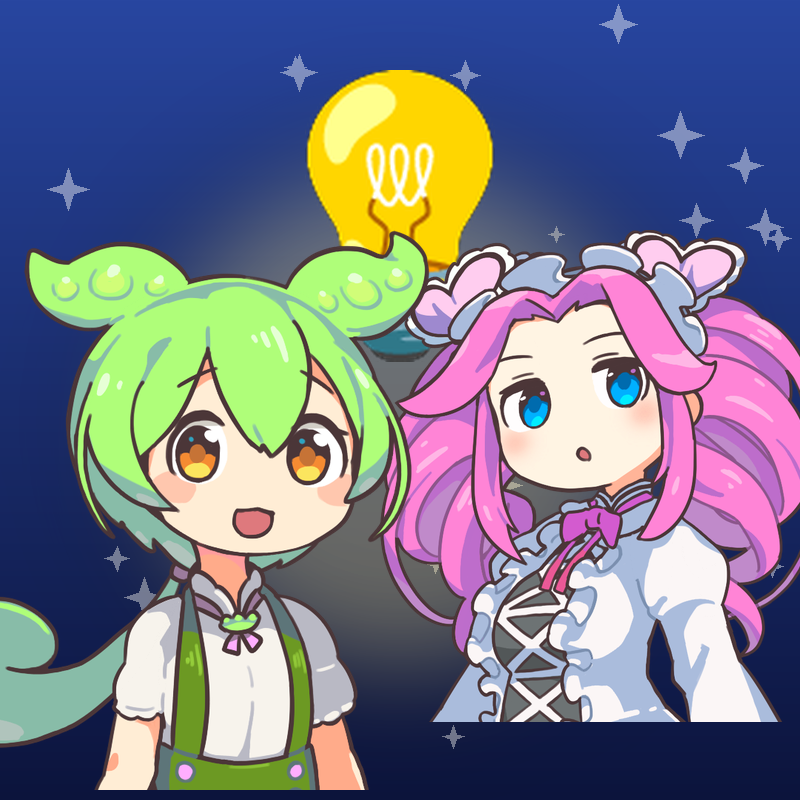
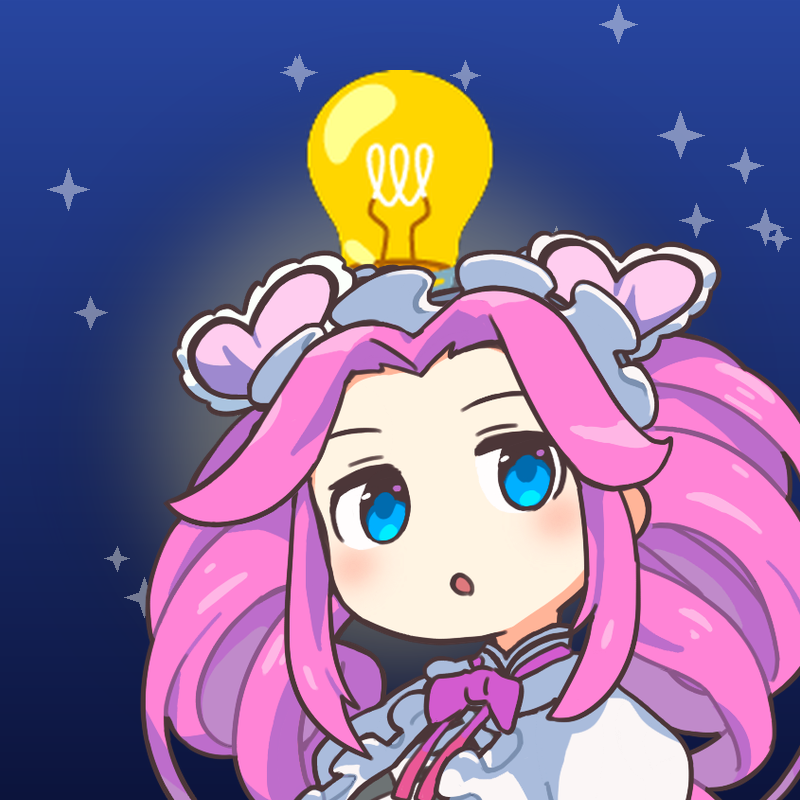
アイコンとバナーからずんだもんの立ち絵を外し、めたんだけにする
Claude-Session: https://claude.ai/code/session_01MzmbYW51uYHDEvUvLbV54E

diff --git a/tools/channel_art.py b/tools/channel_art.py
@@ -56,9 +56,8 @@ def icon(path):
     im = Image.alpha_composite(im, glow.filter(ImageFilter.GaussianBlur(60)))
     bulb = T.emoji_img("💡", 190)
     im.alpha_composite(bulb, (S // 2 - bulb.width // 2, 70))
-    z = char("zundamon", "happy", mirror=True)
     m = char("metan", "happy")
-    for c, x, w in ((m, 380, 430), (z, -20, 450)):
+    for c, x, w in ((m, 140, 680),):
         c = c.resize((w, int(c.height * w / c.width)), Image.LANCZOS)
         im.alpha_composite(c.crop((0, 0, w, min(c.height, S - 230))), (x, 230))
     # 円形に切り抜いたときの見え方も保存（確認用）
@@ -83,20 +82,19 @@ def banner(path, l1, l2, tagline):
     sparkles(im, 90, 7)
     sx0, sy0 = (BW - 1546) // 2, (BH - 423) // 2  # スマホでも見える範囲
     glow = Image.new("RGBA", (BW, BH))
-    ImageDraw.Draw(glow).rounded_rectangle((sx0 + 230, sy0 + 10, sx0 + 1316, sy0 + 413), 80, fill=(255, 255, 255, 40))
+    ImageDraw.Draw(glow).rounded_rectangle((sx0 + 100, sy0 + 10, sx0 + 1180, sy0 + 413), 80, fill=(255, 255, 255, 40))
     im = Image.alpha_composite(im, glow.filter(ImageFilter.GaussianBlur(30)))
     d = ImageDraw.Draw(im)
-    cx = BW / 2
+    cx = sx0 + 640  # 文字は左寄り、右にめたん
     d.text((cx, sy0 + 90), l1, font=L.jp(72), fill=GREEN, anchor="mm", stroke_width=8, stroke_fill=L.NAVY)
     d.text((cx, sy0 + 200), l2, font=L.jp(118), fill=L.WHITE, anchor="mm", stroke_width=12, stroke_fill=L.NAVY)
     f = L.jp(36, True)
     tw = d.textlength(tagline, font=f)
     d.rounded_rectangle((cx - tw / 2 - 40, sy0 + 300, cx + tw / 2 + 40, sy0 + 370), 40, fill=L.GOLD)
     d.text((cx, sy0 + 335), tagline, font=f, fill=L.NAVY, anchor="mm")
-    z = char("zundamon", "happy", mirror=True)
     m = char("metan", "explain")
-    for c, x in ((z, sx0 - 60), (m, sx0 + 1546 - 230)):
-        c = c.resize((290, int(c.height * 290 / c.width)), Image.LANCZOS)
+    for c, x in ((m, sx0 + 1546 - 330),):
+        c = c.resize((360, int(c.height * 360 / c.width)), Image.LANCZOS)
         c = c.crop((0, 0, c.width, min(c.height, 423 + 40)))
         im.alpha_composite(c, (int(x), sy0 - 20))
     im.convert("RGB").save(path)
